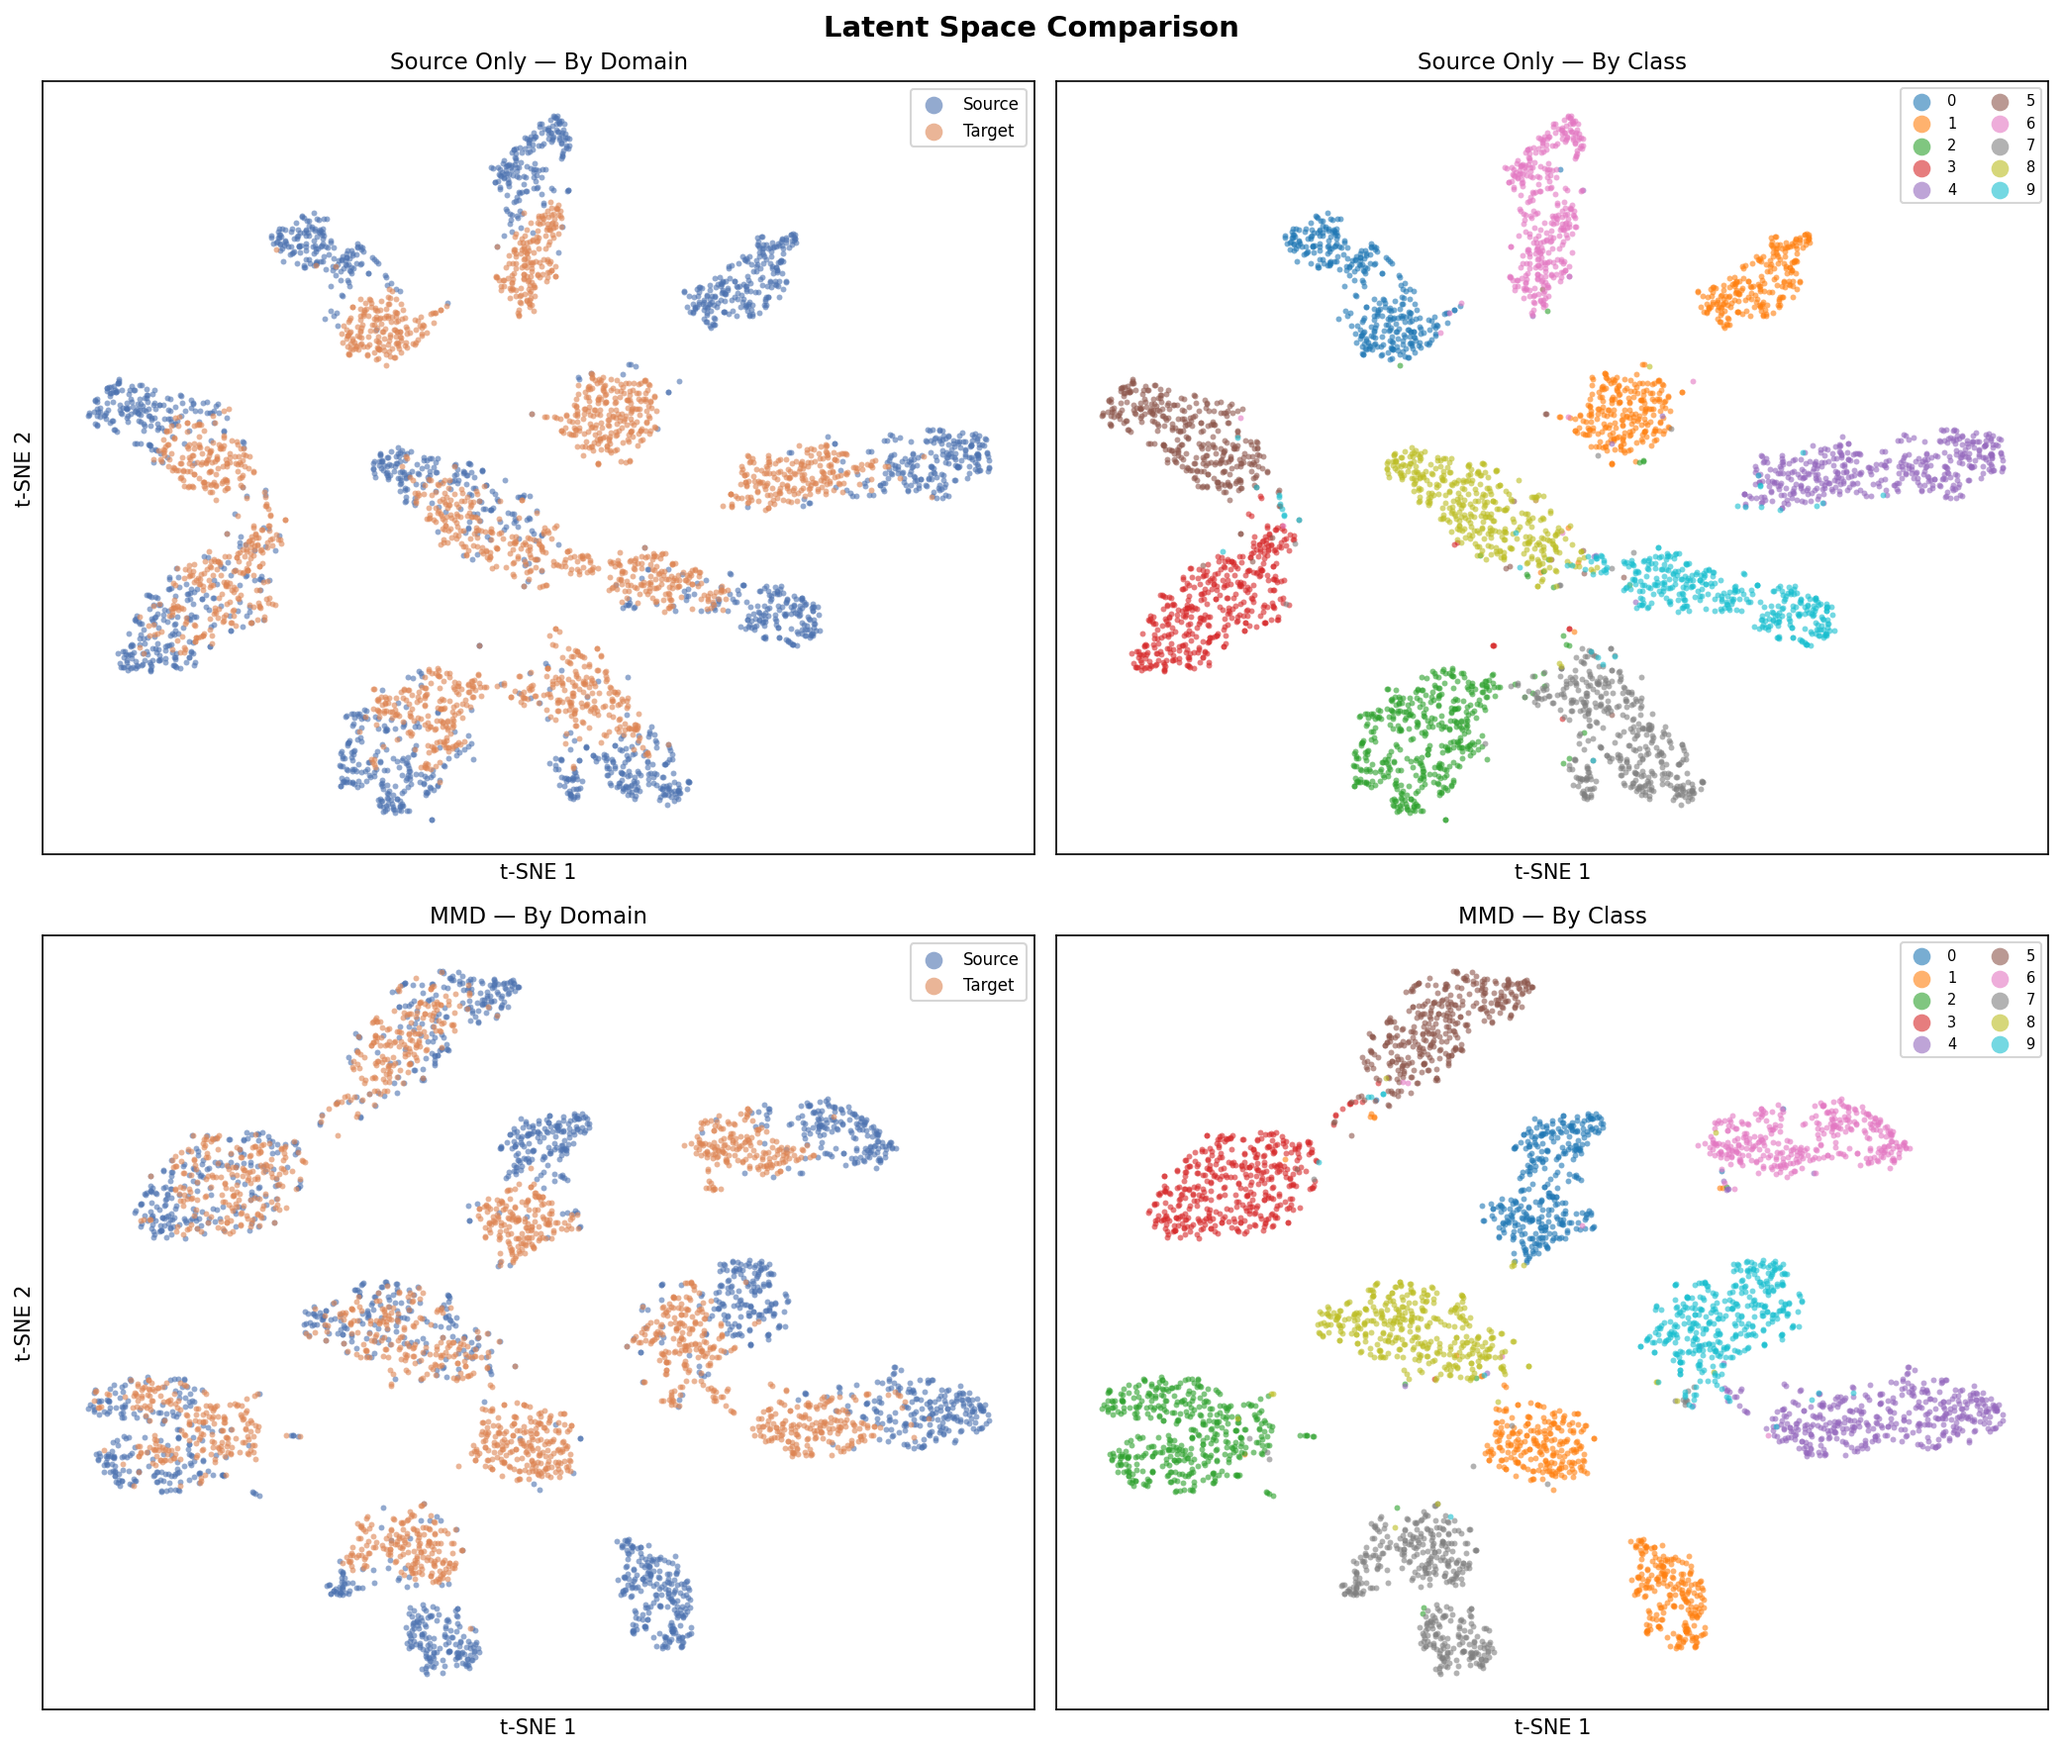
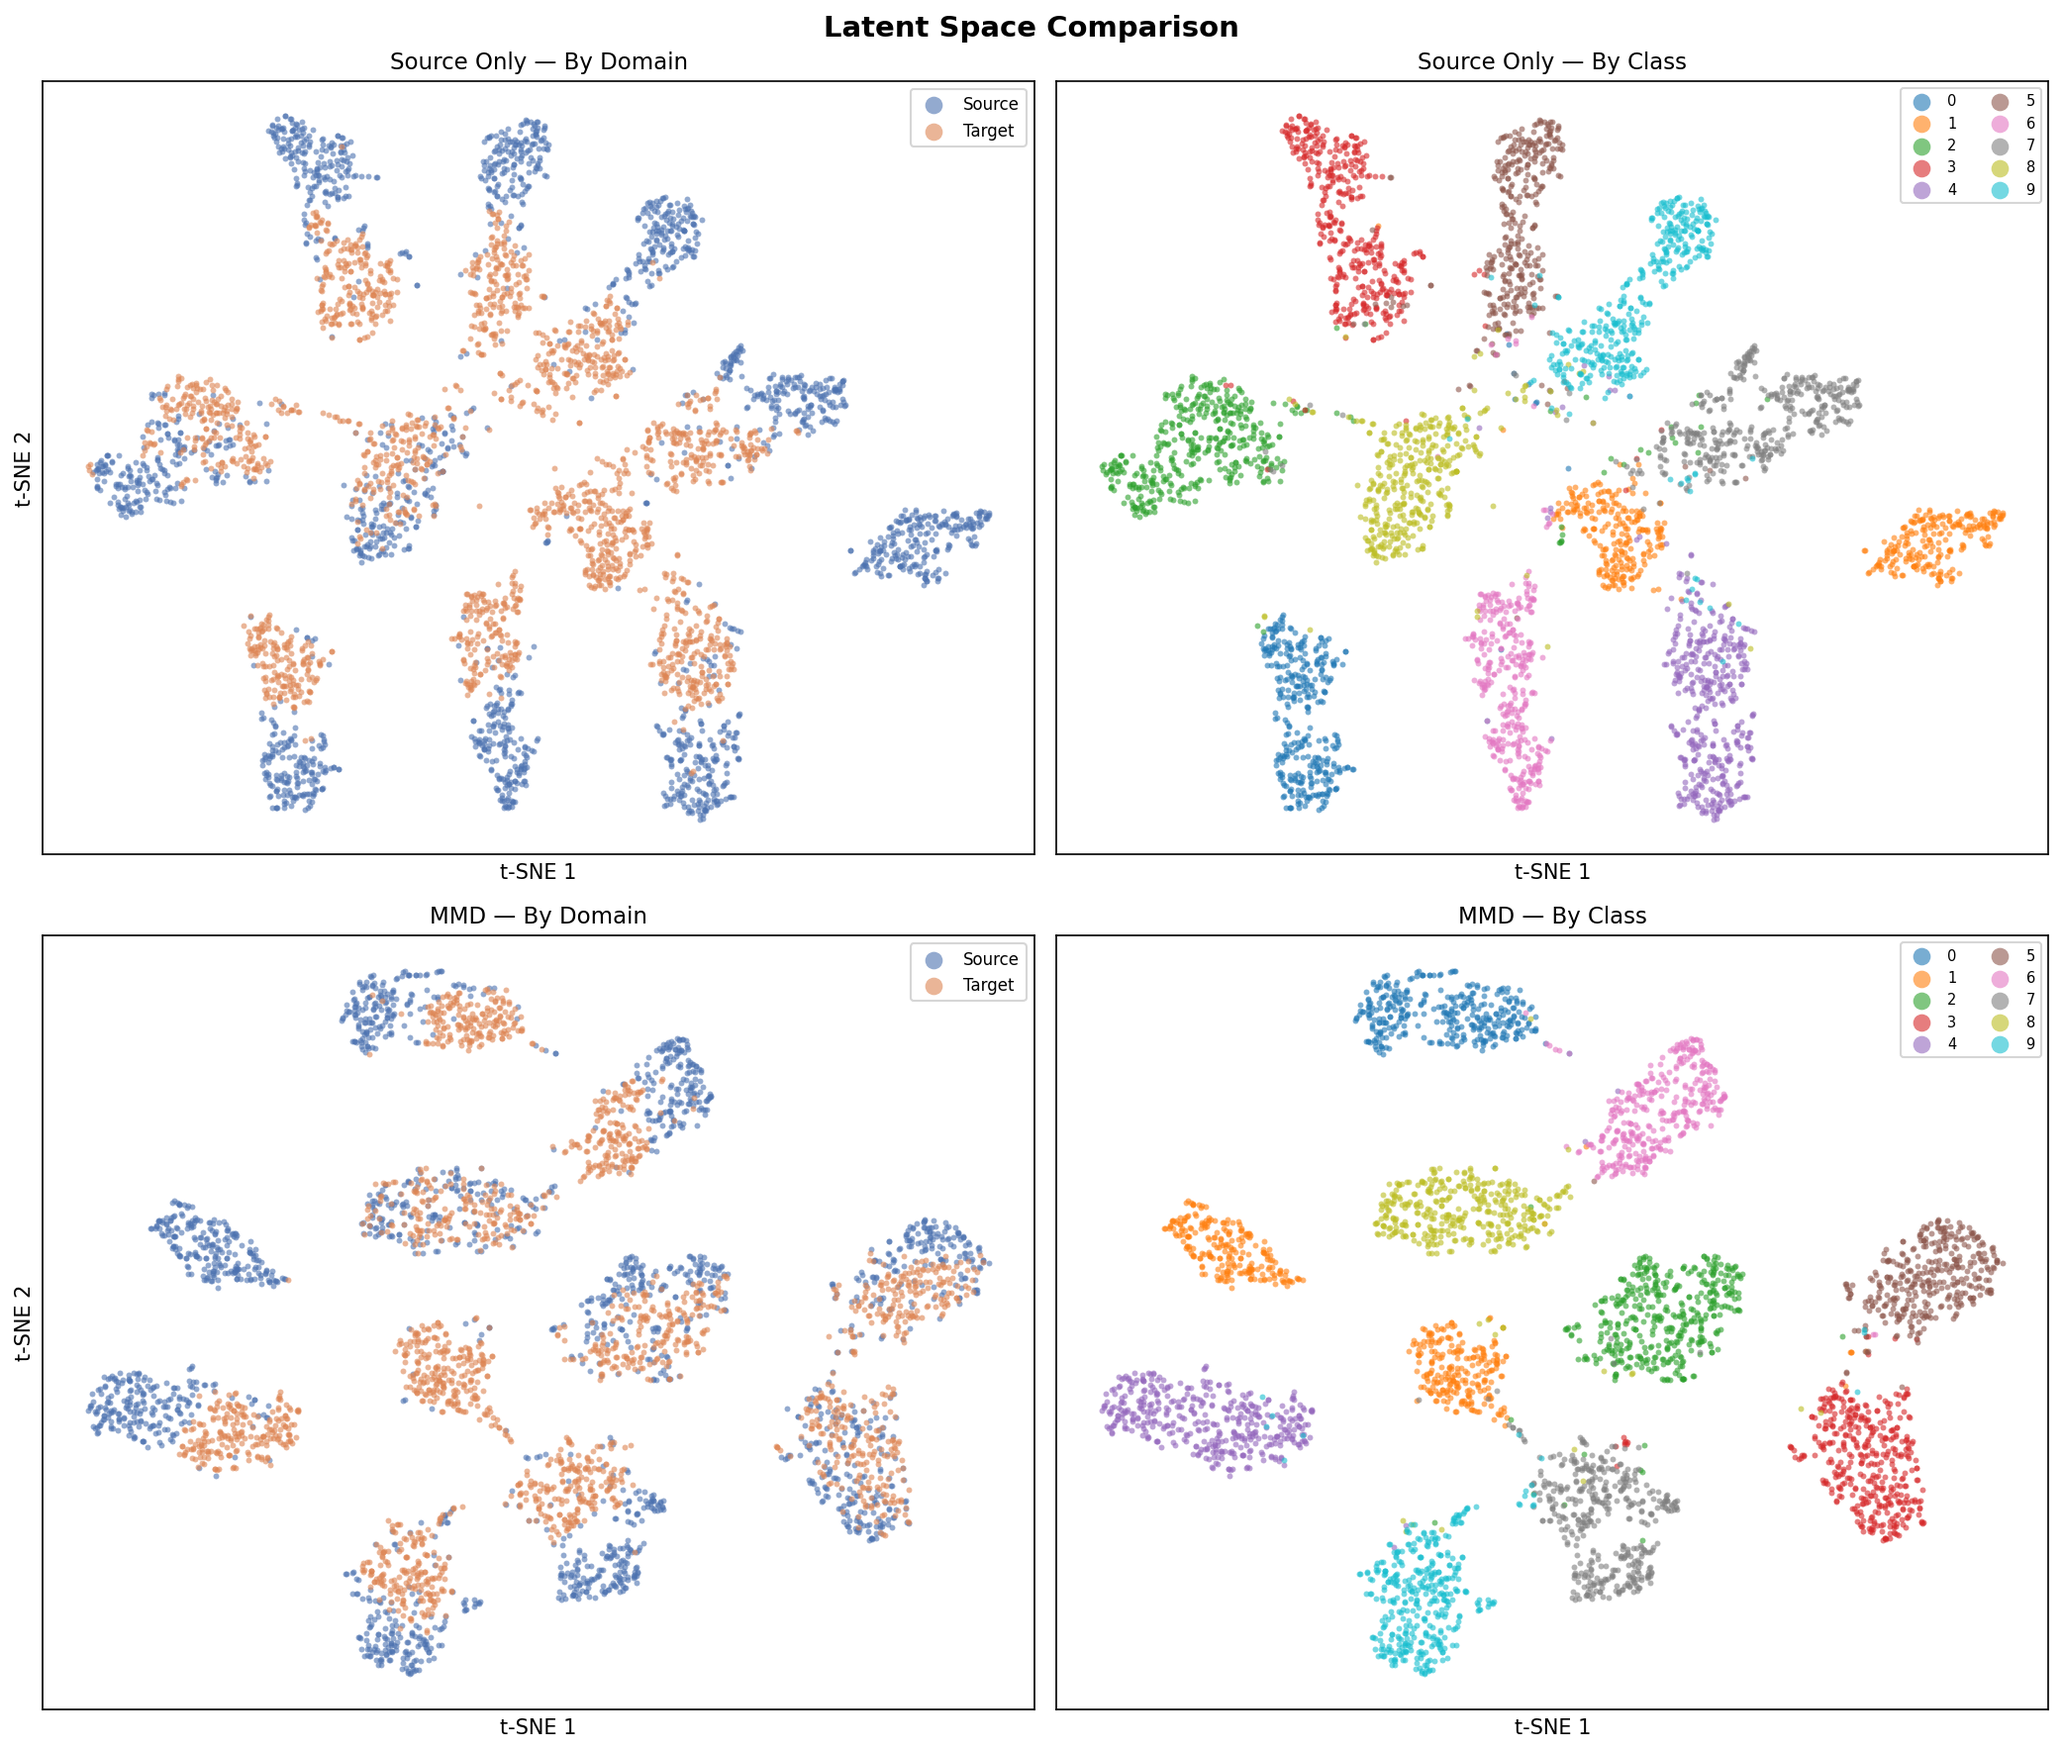
Add confusion matrix and ROC curve figures to diagnostics docs
Generated from MNIST to Noisy MNIST (Source-Only 84.2% vs MMD 97.1% target):
- confusion_matrix_target.png: side-by-side on Noisy MNIST test set
- confusion_matrix_source.png: same models on clean MNIST (reference)
- roc_curves_target.png: per-class OvR ROC + AUC on Noisy MNIST test set
- roc_curves_source.png: same models on clean MNIST (reference)
- Refreshed training_history.png and latent_space_comparison.png
- Updated diagnostics.md with figure embeds and captions for all new plots

diff --git a/docs/diagnostics.md b/docs/diagnostics.md
@@ -276,6 +276,16 @@ fig = plot_confusion_matrix(
 
 **Returns:** `matplotlib.figure.Figure`
 
+**Target domain output (Source-Only vs MMD):**
+
+![Confusion Matrix — Target](assets/confusion_matrix_target.png)
+*Row-normalised confusion matrices on the Noisy MNIST target test set. Source-Only (left) shows visible off-diagonal errors due to domain shift; MMD (right) recovers a near-diagonal structure.*
+
+**Source domain output (reference):**
+
+![Confusion Matrix — Source](assets/confusion_matrix_source.png)
+*Same models evaluated on the clean MNIST source test set — both models perform similarly here, confirming the performance gap is domain-induced.*
+
 !!! tip "Interpreting the confusion matrix"
     - **Diagonal cells** (top-left to bottom-right) show correct predictions for each class.
     - **Off-diagonal cells** reveal which classes are confused with each other.
@@ -344,6 +354,16 @@ The **Area Under the Curve (AUC)** summarises the entire ROC curve as a single n
 - **AUC = 1.0** — perfect classifier
 - **AUC = 0.5** — random chance (diagonal dashed line)
 - **AUC < 0.5** — worse than random (predictions are systematically inverted)
+
+**Target domain output (Source-Only vs MMD):**
+
+![ROC Curves — Target](assets/roc_curves_target.png)
+*Per-class ROC curves on the Noisy MNIST target test set. Source-Only (left) shows lower AUC for several classes due to domain shift; MMD (right) restores near-perfect AUC across all 10 digits.*
+
+**Source domain output (reference):**
+
+![ROC Curves — Source](assets/roc_curves_source.png)
+*Same models on the clean MNIST source test set — both models show high AUC on source, confirming the drop on target is domain-induced rather than a training failure.*
 
 !!! tip "AUC as a DA quality metric"
     Compare AUC on the **target test set** across methods. An improvement over the Source-Only baseline directly quantifies the benefit of domain adaptation for each class, independent of the classification threshold.
